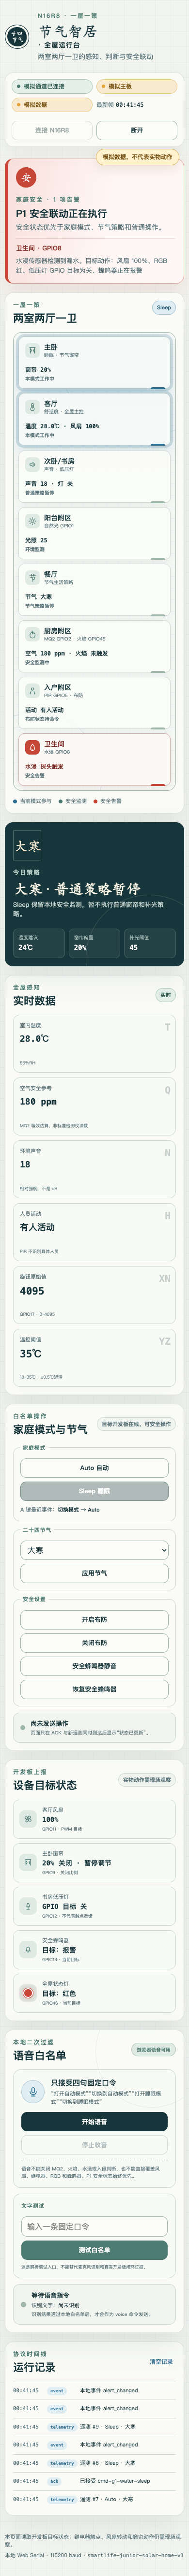
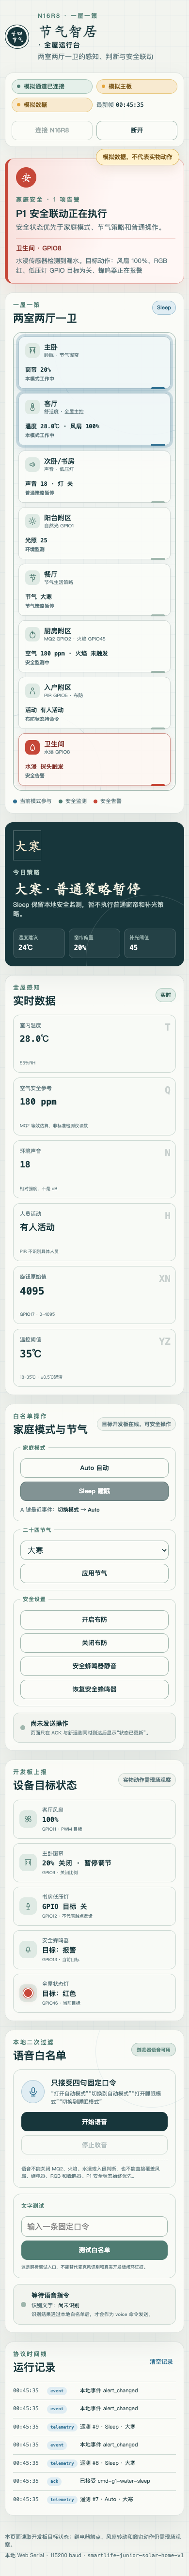
test: record predeploy browser evidence

Changed region(s): [[0.1231, 0.5607, 0.8923, 0.5919]]

diff --git a/docs/evidence/preflight/任务十二静态发布包浏览器预检_20260720.md b/docs/evidence/preflight/任务十二静态发布包浏览器预检_20260720.md
@@ -1,0 +1,57 @@
+# 任务十二：静态发布包浏览器预检
+
+> 发布版本：`20260720-predeploy.1`
+>
+> 源提交：`24649357b36b78ddb20a99753b739ed4c7720581`
+>
+> 状态：`predeploy-verified-not-deployed`
+
+## 结论
+
+生成后的静态目录已通过文件完整性、真实 HTTP 加载、桌面布局、390px 布局和 G1 模拟帧回放。页面保持“全屋运行台”定位，没有评分操作界面；本次没有上传到任何托管平台、没有分配域名、没有烧录开发板。
+
+## 发布包证据
+
+| 项目 | 结果 |
+| --- | --- |
+| 本地目录 | `dist/smartlife-junior-solar-home-v1/`（可再生成，不进 Git） |
+| 留档清单 | `task12-static-release-manifest-20260720.json` |
+| 运行方式 | `static-https-web-serial` |
+| 资源数量 | 7 个：入口、CSS、4 个 JS、`.nojekyll` |
[1 lines of base64/hex data omitted]
+| 云端控制中继 | 无 |
+| 自动部署 | 无 |
+
+`tools/verify_static_release.py` 已逐项验证文件存在、大小、SHA-256、版本查询参数及目录无额外文件。页面引用的 `style.css` 和 4 个 JavaScript 文件均带 `?v=20260720-predeploy.1`。
+
+## 浏览器回归
+
+通过本地 HTTP 在 Chrome 中打开实际 `dist` 目录，而不是源码目录。Playwright 两项测试全部通过：
+
+1. 桌面端加载入口、五个带版本号的资源和清单，HTTP 全部返回 `200`；`window.isSecureContext=true`，重放至遥测 `seq=12` 后显示 Sleep 恢复态、风扇 35%、无安全告警和模拟水印。
+2. 390px 重放至遥测 `seq=9` 后显示卫生间水浸 P1、风扇 100% 和模拟水印；`body`、`documentElement` 的 `scrollWidth` 均不超过 `390px`。
+
+两个页面均为控制台 `0 error / 0 warning`、请求失败 `0`，正文不含评分操作词。
+
+## 截图完整性
+
+| 文件 | 尺寸 | SHA-256 |
+| --- | --- | --- |
[2 lines of base64/hex data omitted]
+
+## 软件回归
+
+- Python：`36/36` 通过。
+- 固件原生：`24/24` 通过。
+- N16R8 目标编译：成功，RAM `6.5%`、Flash `5.4%`。
+- Dashboard：协议 `9/9`、告警 `6/6`、语音 `10/10`、页面合同和模拟回放通过。
+- Playwright：`2/2` 通过。
+- npm 离线审计：`0 vulnerabilities`。
+
+## 证据边界
+
+- localhost 是浏览器部署演练，不是公网 HTTPS 上线证明。
+- 模拟帧继续带 `source=mock`；截图不能当真板动作证据。
+- Web Serial 只连接打开页面这台电脑的 USB 开发板，静态服务器不能远程控制设备。
+- 真实域名、TLS、响应头、麦克风权限、USB 串口和真板闭环均须在下一阶段分别验证。

diff --git a/docs/superpowers/plans/2026-07-19-smartlife-junior-solar-home-implementation.md b/docs/superpowers/plans/2026-07-19-smartlife-junior-solar-home-implementation.md
@@ -663,3 +663,12 @@ docs: finalize full-score demo and acceptance pack
 - 完整软件闸门输出和每条命令的退出码、耗时、SHA-256 已写入 `docs/evidence/mock/`；Python `29/29`、固件原生 `24/24`、协议 `9/9`、告警 `6/6`、语音 `10/10`、页面合同和旧证据回放通过。
 - N16R8 目标编译成功，RAM `6.5%`、Flash `5.4%`。据此项目状态升级为 `mock-passed`。
 - `mock-passed` 只代表软件与模拟证据；本次没有烧录、读取真串口、验证真人麦克风或观察实物动作，G2/G3/G4 仍为 `pending`。
+
+## 28. 部署上线前执行结果（2026-07-20）
+
+- 新增纯静态发布构建器和核验器，发布目录只包含入口、CSS、协议/告警/语音/应用 JavaScript 及 `.nojekyll`；每项均记录大小和 SHA-256。
+- 构建时拒绝远程脚本、可见评分操作词、WSS、MQTT 和 Service Worker；运行合同固定为 `static-https-web-serial`，服务器不代理或保存设备命令。
[1 lines of base64/hex data omitted]
+- 实际构建目录通过本地 HTTP 加载：入口、五项版本化 CSS/JS 和清单全部返回 `200`，桌面恢复态和 390px 水浸 P1 回归 `2/2` 通过，控制台 0 错误、0 警告。
+- 提供 Nginx 与兼容静态托管平台的 HTTPS 安全响应头模板；没有安装模板、创建自动部署工作流、启用 Pages、写入域名/TLS 或上传文件。
+- 当前网页状态为 `predeploy-verified-not-deployed`。这不改变最高实物验收状态 `mock-passed`，也不授权烧录。

diff --git a/docs/部署上线前检查清单.md b/docs/部署上线前检查清单.md
@@ -4,7 +4,7 @@
 >
 > 网页形态：静态 HTTPS + 当前电脑本地 Web Serial
 >
-> 当前状态：`predeploy-rehearsal-pending`
+> 当前状态：`predeploy-verified-not-deployed`
 
 ## 已完成
 
@@ -33,9 +33,9 @@
 
 ## 上线动作前仍需完成
 
-- [ ] 在最后一次 Dashboard/浏览器回归提交后重新生成发布包，使 `sourceCommit` 指向最后一次修改 `dashboard/` 的提交。
-- [ ] 用本地 HTTP 服务打开生成后的发布目录，完成桌面和 390px 浏览器回归，确认控制台无错误。
-- [ ] 核对页面资源全部由发布目录返回，且不存在对源码目录的隐式依赖。
+- [x] 在最后一次 Dashboard/浏览器回归提交后重新生成发布包；`sourceCommit=24649357b36b78ddb20a99753b739ed4c7720581`。
+- [x] 用本地 HTTP 服务打开生成后的发布目录，完成桌面和 390px 浏览器回归，控制台 `0 error / 0 warning`。
+- [x] 核对页面入口、CSS、4 个 JS 和清单全部由发布目录返回且为 HTTP `200`，不存在源码目录隐式依赖。
 - [ ] 选择实际托管平台、域名和 TLS 证书。
 - [ ] 在目标 HTTPS 地址核对 Web Serial 可用性、麦克风权限和实际安全响应头。
 - [ ] 上线后下载公开文件并与 `asset-manifest.json` 逐项比对。

diff --git a/docs/验收状态.md b/docs/验收状态.md
@@ -27,6 +27,13 @@
 - 当前只检测到系统通用串口，未发现 N16R8 常见 USB 数据串口候选；没有执行上传或串口监视。
 - 六项人工电气检查全部保持 `pending`，所以当前最高验收状态仍为 `mock-passed`。
 
+## 网页部署准备（不改变 G1~G4）
+
+- 静态发布包 `20260720-predeploy.1` 已达到 `predeploy-verified-not-deployed`，留档清单位于 `docs/evidence/preflight/task12-static-release-manifest-20260720.json`。
+- 构建后的目录完成桌面和 390px Chrome 回归，版本化资源全部返回 `200`，控制台 0 错误、0 警告。
+- 仓库没有自动部署工作流、没有 `gh-pages` 分支动作、没有真实域名或 TLS 配置；该状态只表示网页可交给下一阶段托管。
+- 部署准备不提升实物验收等级；G2/G3/G4 仍按表中状态执行。
+
 ## 强制边界
 
 - `mock-passed` 不能用于宣称模块已经接线正确、MQ2 分压已实测、继电器触点已动作或风扇/舵机/RGB/蜂鸣器已经产生实体效果。